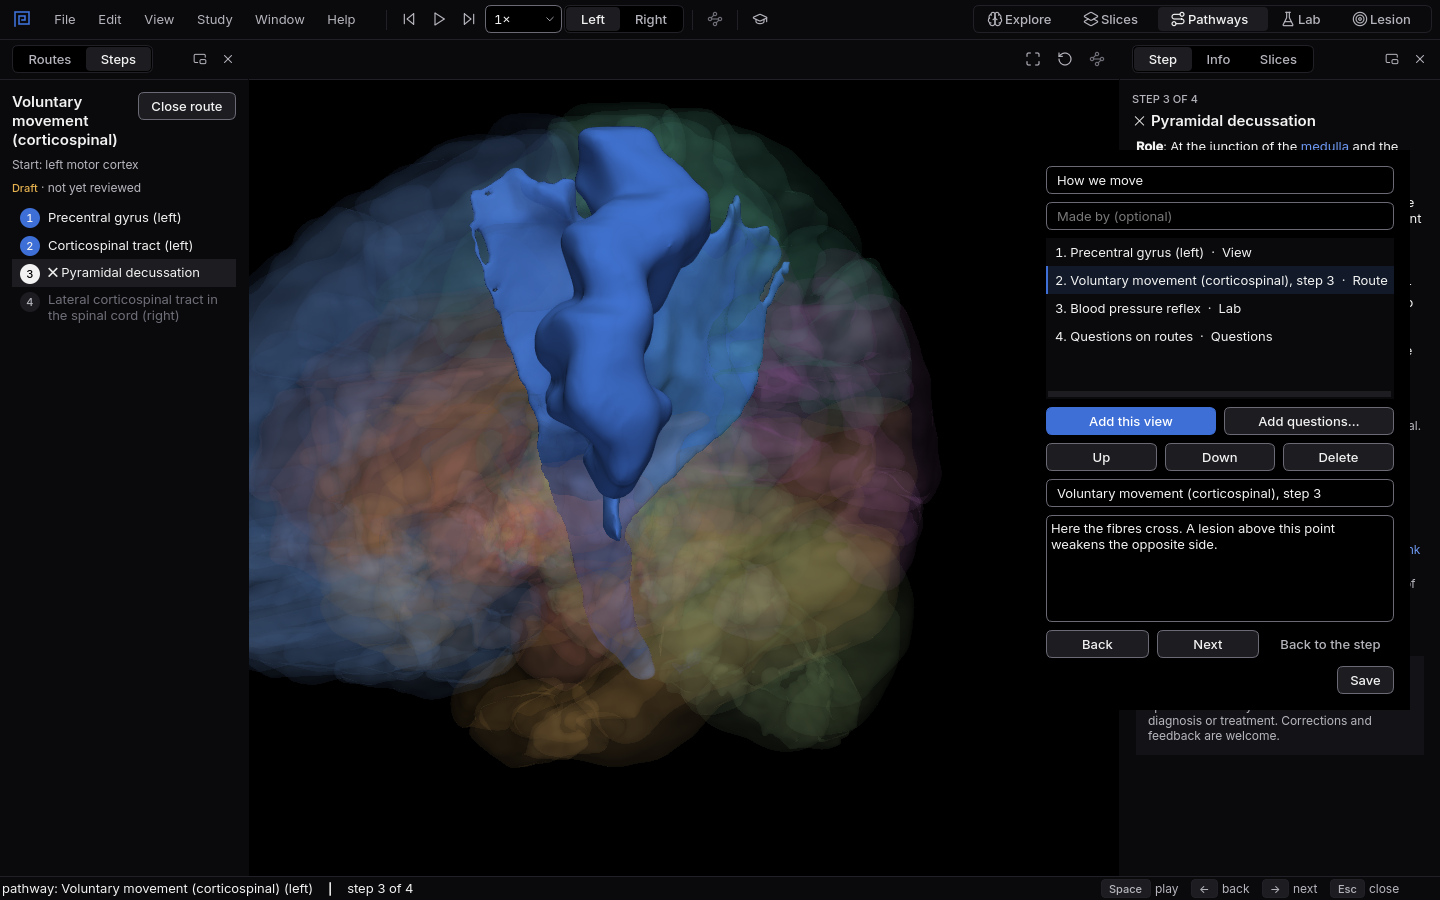
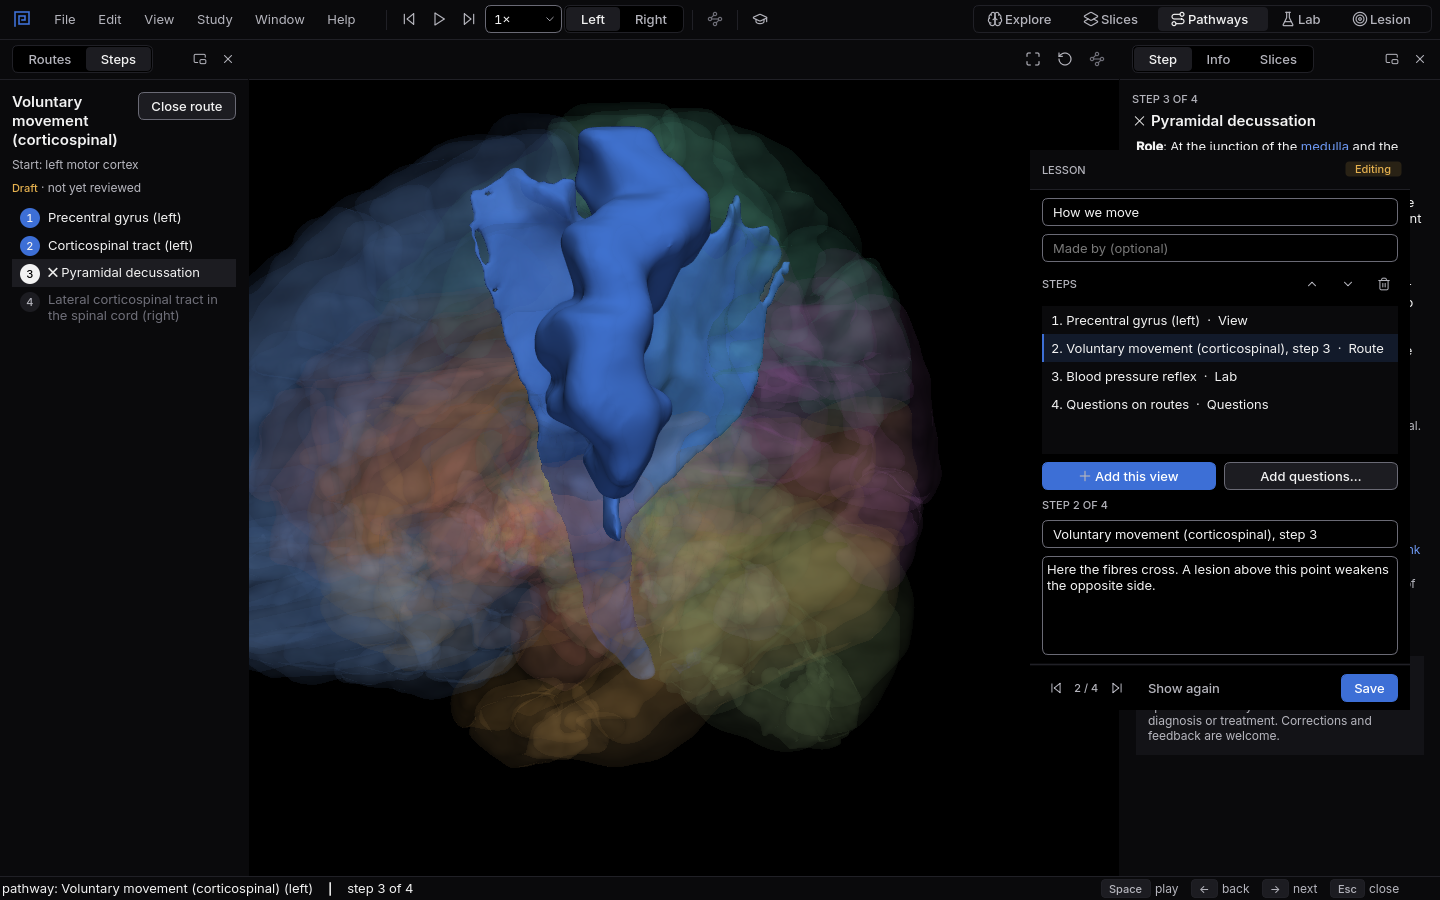
Describe the rebuilt Lesson window in the handbook and retake its picture

Changed region(s): [[0.7188, 0.1867, 0.9688, 0.6533], [0.7188, 0.6844, 0.9688, 0.7778], [0.9062, 0.1556, 0.9688, 0.2178]]

diff --git a/site/handbook/lessons.md b/site/handbook/lessons.md
@@ -15,7 +15,7 @@ A slide shows one picture. A lesson step puts the student inside the same view, 
 </div>
 <div class="box see" markdown>
 <span class="k">What you will see</span>
-A small Lesson window with the steps, the note for the current step, and Back and Next.
+A small Lesson window with the steps, the note for the current step, and arrows to move between them.
 </div>
 </div>
 
@@ -25,6 +25,8 @@ A small Lesson window with the steps, the note for the current step, and Back an
 ## Making a lesson
 
 Choose **File, New lesson**. A Lesson window opens beside the app and stays there while you work.
+Its header says whether you are **Editing** or **Playing**; **Steps** lists the lesson, and the
+section under it shows the step you are on.
 
 1. **Add a step.** Put the app in the state you want the class to see, then press
    **Add this view**. What is saved depends on where you are:
@@ -36,8 +38,8 @@ Choose **File, New lesson**. A Lesson window opens beside the app and stays ther
    becomes a practice round on that level and scope, for example routes in one group or the Lab
    questions on one system.
 3. **Write the note.** Give the step a title and, if you like, a note of a few sentences.
-4. **Order the steps** with **Up** and **Down**, remove one with **Delete**, and click any step to
-   see it again.
+4. **Order the steps** with the up and down arrows beside **Steps**, remove one with the bin, and
+   click any step to see it again.
 5. **Save.** The lesson is a `.mnemolesson` file you can send to the class like any other file.
 
 A lesson cannot hold flashcards.
@@ -45,9 +47,9 @@ A lesson cannot hold flashcards.
 ## Using a lesson
 
 Double click the file, or choose **File, Open lesson**. The Lesson window lists the steps.
-**Next** and **Back** move through them, and each step arranges the app and shows its note. You
-stay free to turn the brain, move the playhead or try something else; **Back to the step** puts
-the step back as the teacher saved it. A question step runs as practice, so it never changes your
+The arrows at the bottom move to the next or previous step, and each step arranges the app and
+shows its note. You stay free to turn the brain, move the playhead or try something else; **Show
+again** puts the step back as the teacher saved it. A question step runs as practice, so it never changes your
 own quiz schedule. **Edit** turns the lesson into one you can change and save.
 
 ## What a lesson contains
